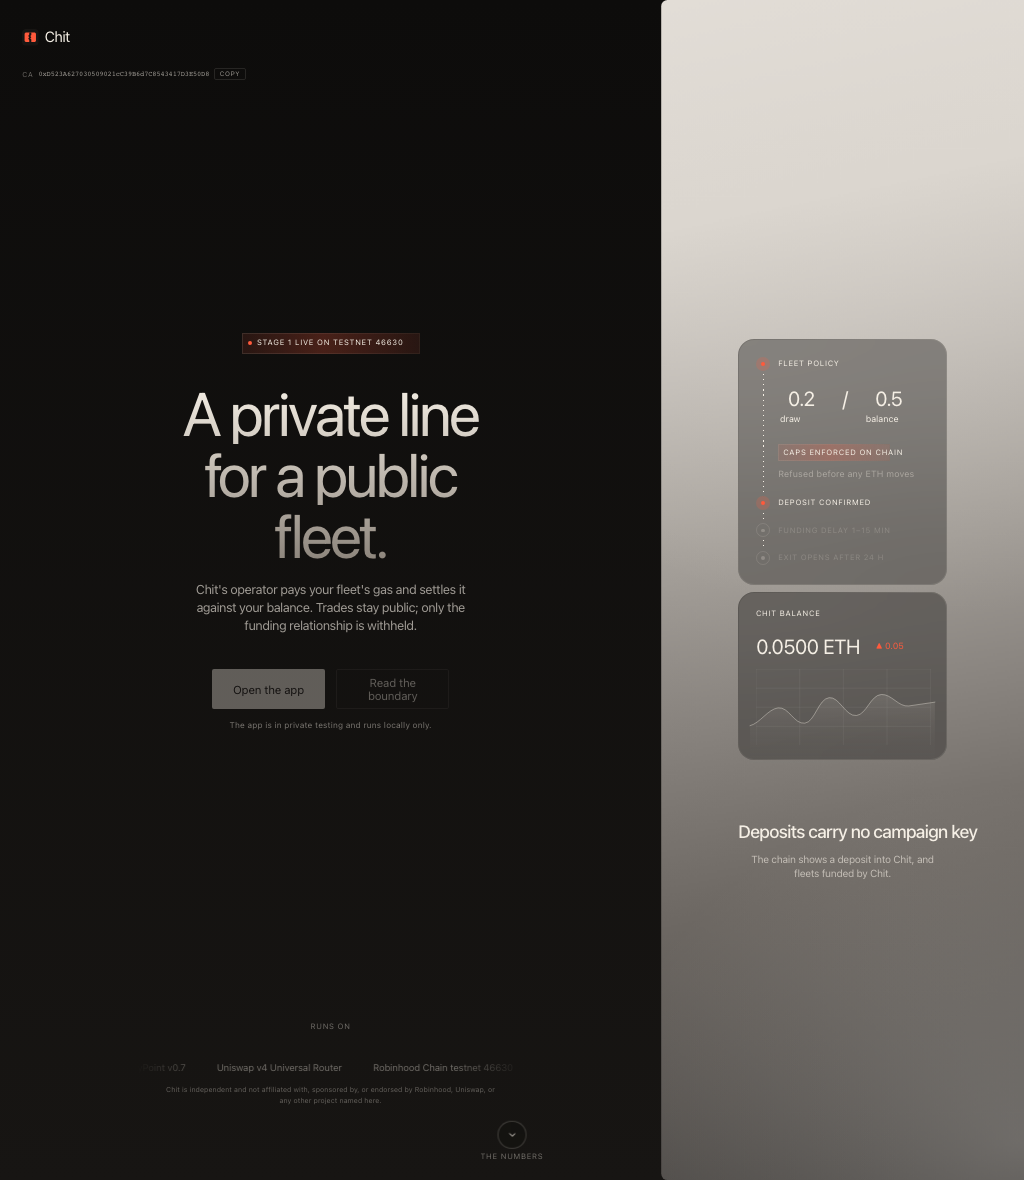
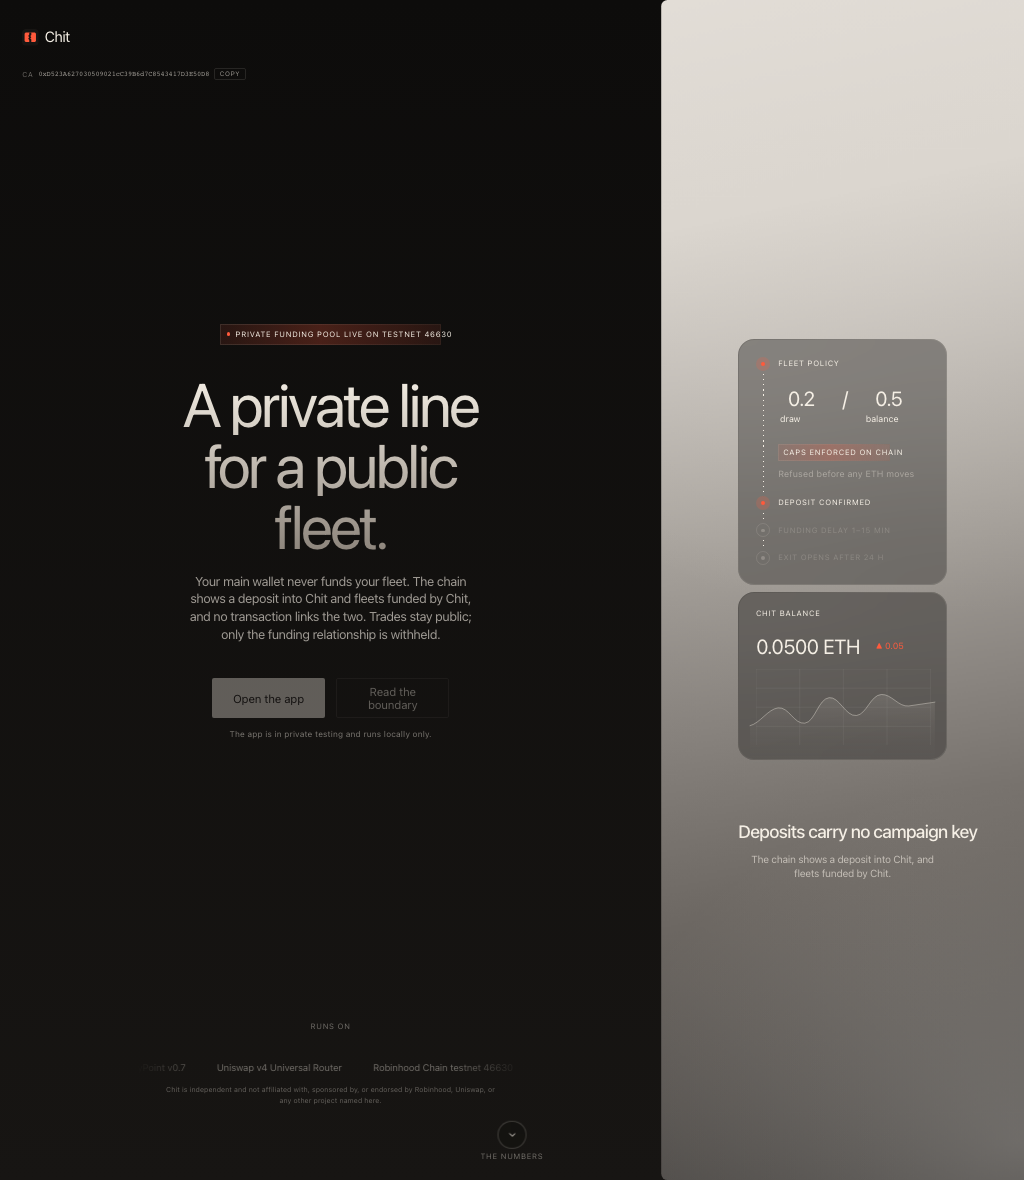
feat(landing): adopt the FR-015 claim, and reopen T040
The pool now serves in production, so the hero moves off the Stage 1 narrowing
and states what Stage 2 earns: the main wallet never funds the fleet, the chain
shows a deposit into Chit and fleets funded by Chit, and no transaction links
the two. The two honesty lines it replaced are kept, not dropped, and the gate
asserts the new wording so it cannot regress.

T040 goes back to open. Its predicate names chit.tools, and the hosted service
could not reach the pool until the production environment variable was fixed
today, so the recorded journey ran locally against the live chain. The three
confirmed on-chain transactions are kept in the task as what it did prove.

Changed region(s): [[0.1562, 0.3051, 0.4688, 0.6407], [0.2188, 0.2746, 0.4375, 0.3051]]

diff --git a/landing/public/index.html b/landing/public/index.html
@@ -84,13 +84,13 @@ window.__entranceFailsafe = setTimeout(() => document.documentElement.classList.
       <div class="hero__content">
         <div class="hero__body">
           <div class="hero__head">
-            <p class="pill" data-reveal style="--rv-delay:1017ms; --rv-dur:50ms"><span class="pill__dot" aria-hidden="true"></span>Stage 1 live on testnet 46630</p>
+            <p class="pill" data-reveal style="--rv-delay:1017ms; --rv-dur:50ms"><span class="pill__dot" aria-hidden="true"></span>Private funding pool live on testnet 46630</p>
             <h1 class="hero__title">
               <span class="hero__line" data-reveal style="--rv-delay:267ms; --rv-dur:483ms">A private line </span>
               <span class="hero__line" data-reveal style="--rv-delay:417ms; --rv-dur:450ms">for a public</span>
               <span class="hero__line" data-reveal style="--rv-delay:567ms; --rv-dur:467ms">fleet.</span>
             </h1>
-            <p class="hero__sub" data-reveal style="--rv-delay:833ms; --rv-dur:617ms">Chit's operator pays your fleet's gas and settles it against your balance. Trades stay public; only the funding relationship is withheld.</p>
+            <p class="hero__sub" data-reveal style="--rv-delay:833ms; --rv-dur:617ms">Your main wallet never funds your fleet. The chain shows a deposit into Chit and fleets funded by Chit, and no transaction links the two. Trades stay public; only the funding relationship is withheld.</p>
             <div class="hero__actions" data-reveal style="--rv-delay:833ms; --rv-dur:600ms">
               <button class="btn btn--solid" type="button" disabled aria-disabled="true">Open the app</button>
               <button class="btn btn--ghost" type="button" disabled aria-disabled="true">Read the boundary</button>

diff --git a/landing/public/style.css b/landing/public/style.css
@@ -145,7 +145,7 @@ a:focus-visible, button:focus-visible{outline:2px solid var(--coral); outline-of
 .hero__head{margin-bottom:calc(54 * var(--u))}
 
 /* PILL */
-.pill{position:relative; display:block; inline-size:calc(279 * var(--u)); margin-inline:auto;
+.pill{position:relative; display:block; inline-size:calc(346 * var(--u)); margin-inline:auto; white-space:nowrap;
   padding:calc(10 * var(--u)); text-align:left;
   font-size:calc(12 * var(--u)); line-height:1.05; letter-spacing:var(--track-wide); text-transform:uppercase;
   background:linear-gradient(90deg, rgba(255,90,60,.10), rgba(255,90,60,.24) 45.55%, rgba(255,90,60,.10))}

diff --git a/IMPLEMENTATION.md b/IMPLEMENTATION.md
@@ -1304,3 +1304,35 @@ wallet; closing the chooser mid-connect discarded an approval given afterwards;
 and a deposit was sent on whatever network the wallet was on, so a wallet moved
 to mainnet after connecting would have sent real ETH to an address with no
 pool. Deposits and exits now confirm Robinhood testnet first.
+
+## Stage 2 reaches production, the claim follows it, and T040 goes back to open (2026-09-13)
+
+`FLEET_POOL_ADDRESS` in the Vercel production environment held the operator
+address, `0x34b0Ba...F724`, instead of the pool's. That address is an EOA with no
+code, so every read of `campaignCount()` came back `0x` and the route's catch-all
+answered 503 `dependency_evidence_invalid`. Sweep, challenges and balance had all
+been down since the pool shipped; the daily cron had been failing silently.
+
+The founder corrected the variable and a redeploy picked it up. `sweep` now
+returns `{"funded":[],"posted":[]}` and challenges issue. Worth recording that my
+own probes were malformed throughout the investigation — they sent `owner` where
+the service reads `primaryWallet` — which made the challenge endpoints look
+broken after the fix when they were not. The environment bug was real and is
+proven by sweep alone, which changed behaviour on nothing but the address.
+
+With the pool actually serving, the hero moved from the Stage 1 narrowing to the
+FR-015 claim: "Your main wallet never funds your fleet. The chain shows a deposit
+into Chit and fleets funded by Chit, and no transaction links the two." The two
+honesty lines that sentence replaced were kept rather than dropped, so trades
+stay public and the withheld relationship are both still stated, and screen B
+still carries the operator admission and "Private, not anonymous". The eyebrow
+changed from "Stage 1 live" to "Private funding pool live", and the gate now
+asserts the FR-015 wording so it cannot quietly regress.
+
+T040 is re-marked open. Its predicate names chit.tools, and the hosted service
+could not reach the pool at all until today, so the journey that was recorded
+ran against a local service pointed at the live chain. What it genuinely proved
+is kept in the task: three transactions confirmed successful on 46630, deposit,
+sponsored buy and withdrawal. What it did not prove is the hosted path. Done
+means the predicate passed, and this one names a host it never touched. It is
+now unblocked and can be closed by re-running against chit.tools.
